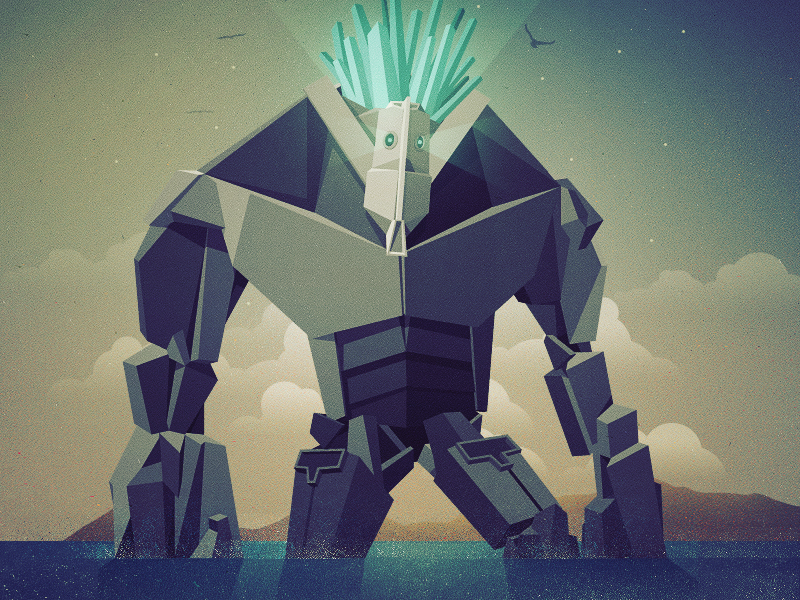
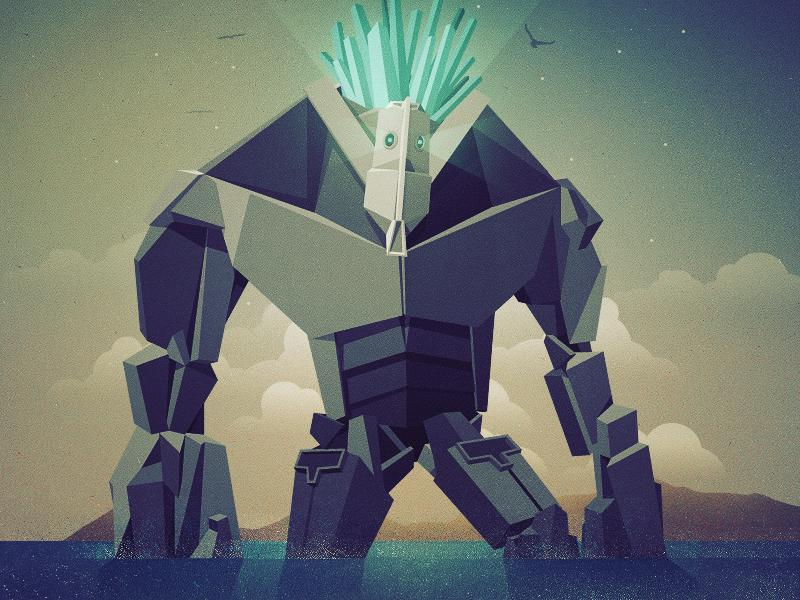
Some fixes
-Parallax fix is off (Android devices doesn't ignore parallax.js)
-images compression

diff --git a/index.html b/index.html
@@ -23,7 +23,7 @@
 		</div>
 	</div>
 
-	<header class="main_head" data-parallax="scroll" data-image-src="img/background.jpg" data-position="top center">
+	<header class="main_head" data-parallax="scroll" data-image-src="img/background.jpg" data-position="top center" data-android-fix="false">
 		<div class="container">
 			<div class="row">
 				<div class="logo_container">
